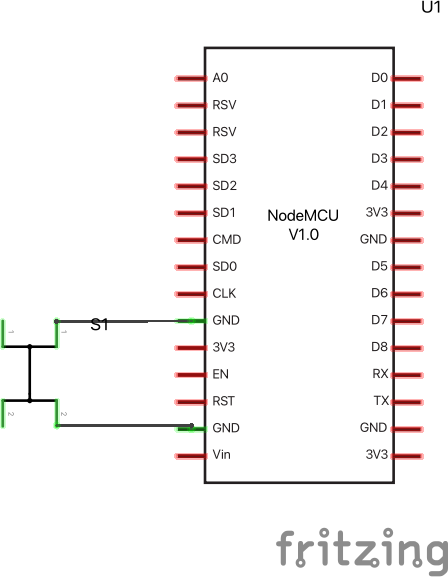
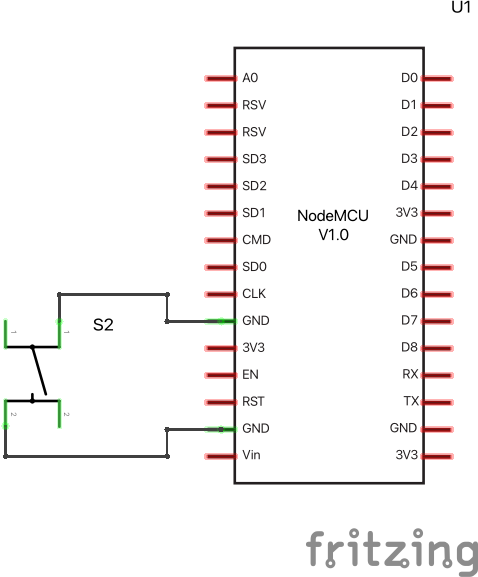
add button readme, fix led readme

diff --git a/Code/MQTT_button/readme.md b/Code/MQTT_button/readme.md
@@ -1,5 +1,126 @@
 # MQTT Button
 
+In this example we connect to the MQTT server (topic hmm-inc) and wait for a button press. When the button is pressed we send the message `<client_id>:emoji:woof`. The livestreaming server listens for these messages and will respond by displaying the emote by that name. <client_id> is the unique id that you define in the sketch.
+
+There are comment in the code, also included below, that describe how this works. 
+
+Wire the button between pin D27 and GND on the arduino. In the images below you see how this should look on a breadboard and what it looks like as a circuit diagram. 
+
 ![wiring](MQTT_button_bb.png)
 ![wiring](MQTT_button_sch.png)
 
+```c
+#include <WiFi.h>
+#include <MQTT.h>
+#include <ArduinoJson.h>
+
+char ssid[] = "wifi network name";  // Replace with your network SSID
+char pass[] = "wifi password";  // Replace with your network password
+char host[] = "test.mosquitto.org"; // don't change this.
+char topic[] = "inc-hmm"; // don't change this.
+String client_id = "esp1"; // but please change this :)
+
+WiFiClient wifiClient;
+MQTTClient client;
+
+#define BTN_PIN 27
+#define LED_BUILTIN 26
+
+/*
+Setup get run when the ESP32 starts up. 
+*/
+void setup() {
+  Serial.begin(115200); // serial communication for debugging
+	pinMode(LED_PIN, OUTPUT); // configure pin 26 as a output. 
+  pinMode(BTN_PIN, INPUT_PULLUP); // configure pin 27 as an input.
+	// we're using INPUT_PULLUP mode, this makes connecting a button 
+	// very easy. No resistors needed. 
+	// More info: https://roboticsbackend.com/arduino-input_pullup-pinmode/ 
+
+  // start wifi and mqtt
+  WiFi.begin(ssid, pass);
+  client.begin(host, wifiClient);
+  client.onMessage(messageReceived); // call the messageReceived function when a message is received
+	// connect wifi and mqtt
+  connectWifi();
+  connectMqtt();
+	// say hi
+  sendMessage("connect");
+}
+  
+/*
+* The loop function continuously check for new MQTT messages
+* 
+*/
+void loop() {
+  client.loop();
+  // check if connected to the MQTT relay server
+  if (!client.connected()) {
+    Serial.println("lost connection");
+    connectMqtt();
+    delay(5000); // prevent flooding the server
+  }
+  digitalWrite(LED_BUILTIN, LOW);    // turn the LED off by making the voltage LOW
+  if ( digitalRead( BTN_PIN  ) == LOW ) { // if the button is pressed it will read as LOW here
+    digitalWrite(LED_BUILTIN, HIGH);   // turn the LED on (HIGH is the voltage level)
+    sendMessage("emoji", "woof"); // send the message
+    delay(200); // debounce the button and prevent flooding the server.
+  }
+}
+
+
+/* ---------------------- you can ignore code below this line --------------------- */
+
+/* 
+* Wait for wifi connection 
+*/
+void connectWifi() {
+  Serial.print("Connecting to wifi...");
+  while (WiFi.status() != WL_CONNECTED) {
+    Serial.print(".");
+    delay(1000);
+  }
+  Serial.println("\nWifi connected!");
+  delay(1000);
+}
+
+/* 
+* Wait for MQTT connection and subscribe to the topic
+*/
+void connectMqtt() {
+  Serial.print("\nConnecting to MQTT server...");
+  while (!client.connect(client_id.c_str())) {
+    Serial.print(".");
+    delay(1000);
+  }
+  Serial.println("\nMQTT connected!");
+  delay(1000);
+  client.subscribe(topic);
+}
+
+/* 
+* In this example we're only sending, but recieved messages
+* would be handled by this method.
+*/
+void messageReceived(String &topic, String &payload) {
+  Serial.println(topic + ": " + payload);
+  // we're only sending in this example, so nothing happens here.
+}
+
+
+/* 
+* Concat the command and parameter into a colon separated string 
+* and publish the message 
+*/
+void sendMessage(String message, String parameter) {
+  String msg = client_id + ":" + message + ":" + parameter;
+  client.publish(topic, msg);
+}
+
+/* 
+* Overloaded sendMessage function without the parameter 
+*/
+void sendMessage(String message) {
+  sendMessage(message, "");
+}
+```
